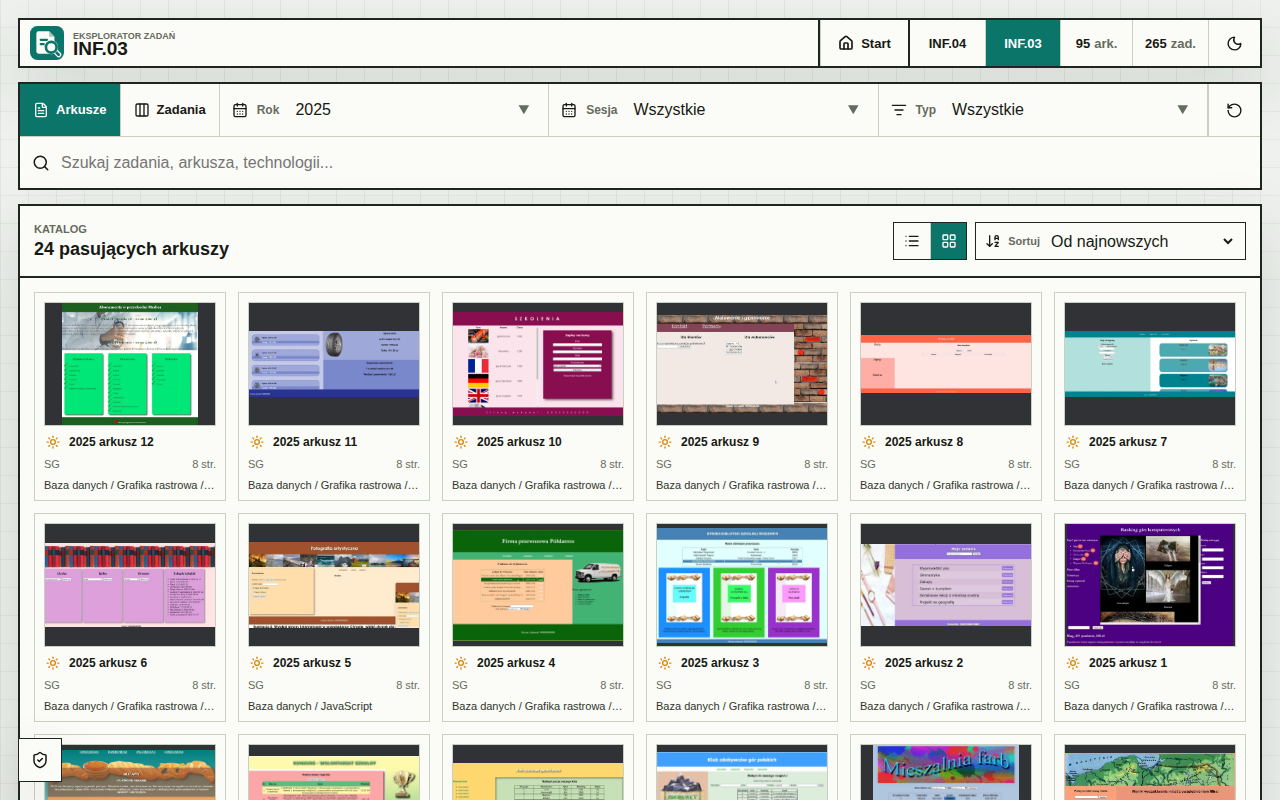
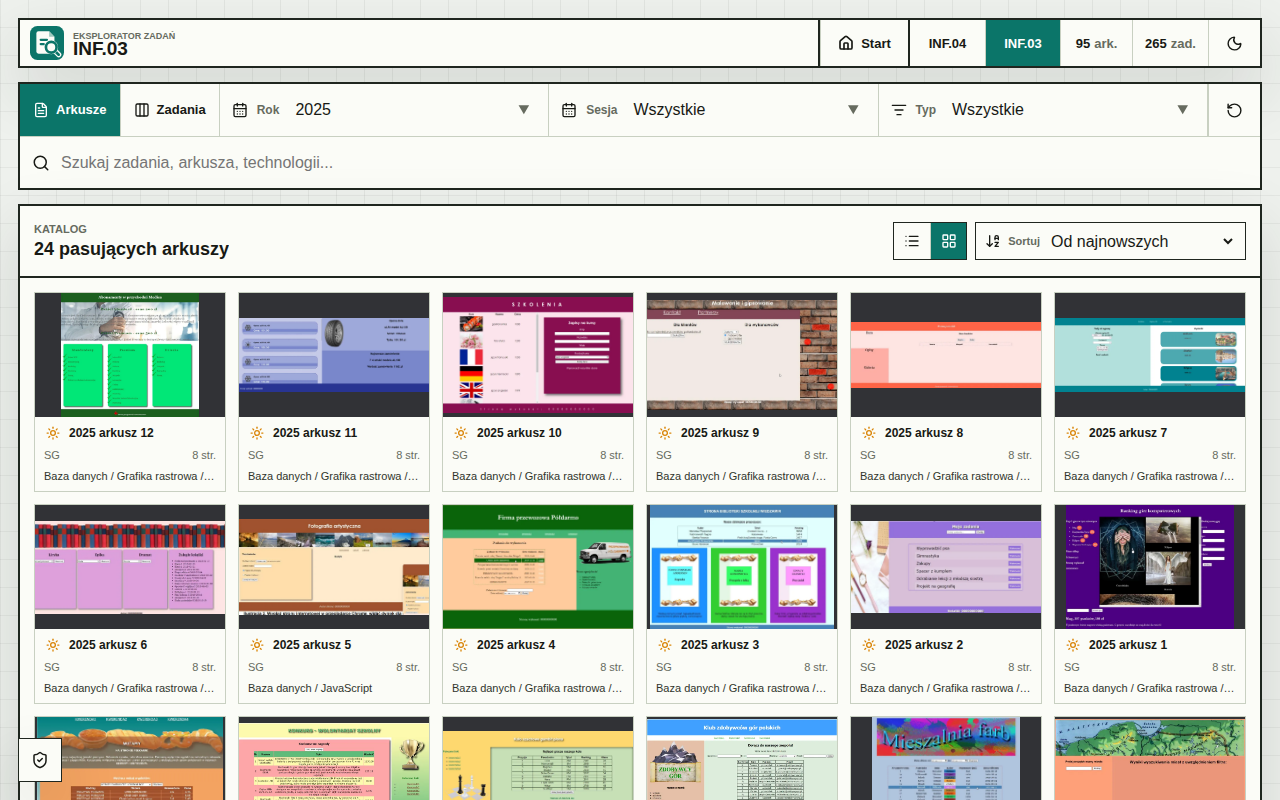
Remove inset around exam thumbnails

diff --git a/src/styles/registry.css b/src/styles/registry.css
@@ -117,7 +117,7 @@
   flex-direction: column;
   align-items: stretch;
   gap: 9px;
-  padding: 9px;
+  padding: 0 0 9px;
   border: 1px solid var(--line);
   background: var(--paper);
   text-decoration: none;
@@ -134,7 +134,6 @@
   height: 124px;
   flex: 0 0 auto;
   overflow: hidden;
-  border: 1px solid var(--line);
   background: var(--pdf-bg);
   pointer-events: none;
 }
@@ -168,11 +167,15 @@
 
 .thumbnail-view .exam-code {
   min-width: 0;
+  width: calc(100% - 18px);
+  margin-inline: 9px;
   font-size: 12px;
 }
 
 .thumbnail-view .exam-meta {
   display: flex;
+  width: calc(100% - 18px);
+  margin-inline: 9px;
   justify-content: space-between;
   gap: 8px;
   color: var(--muted);
@@ -180,7 +183,8 @@
 }
 
 .thumbnail-view .exam-types {
-  width: 100%;
+  width: calc(100% - 18px);
+  margin-inline: 9px;
   align-self: stretch;
   overflow: hidden;
   color: var(--row-text);
